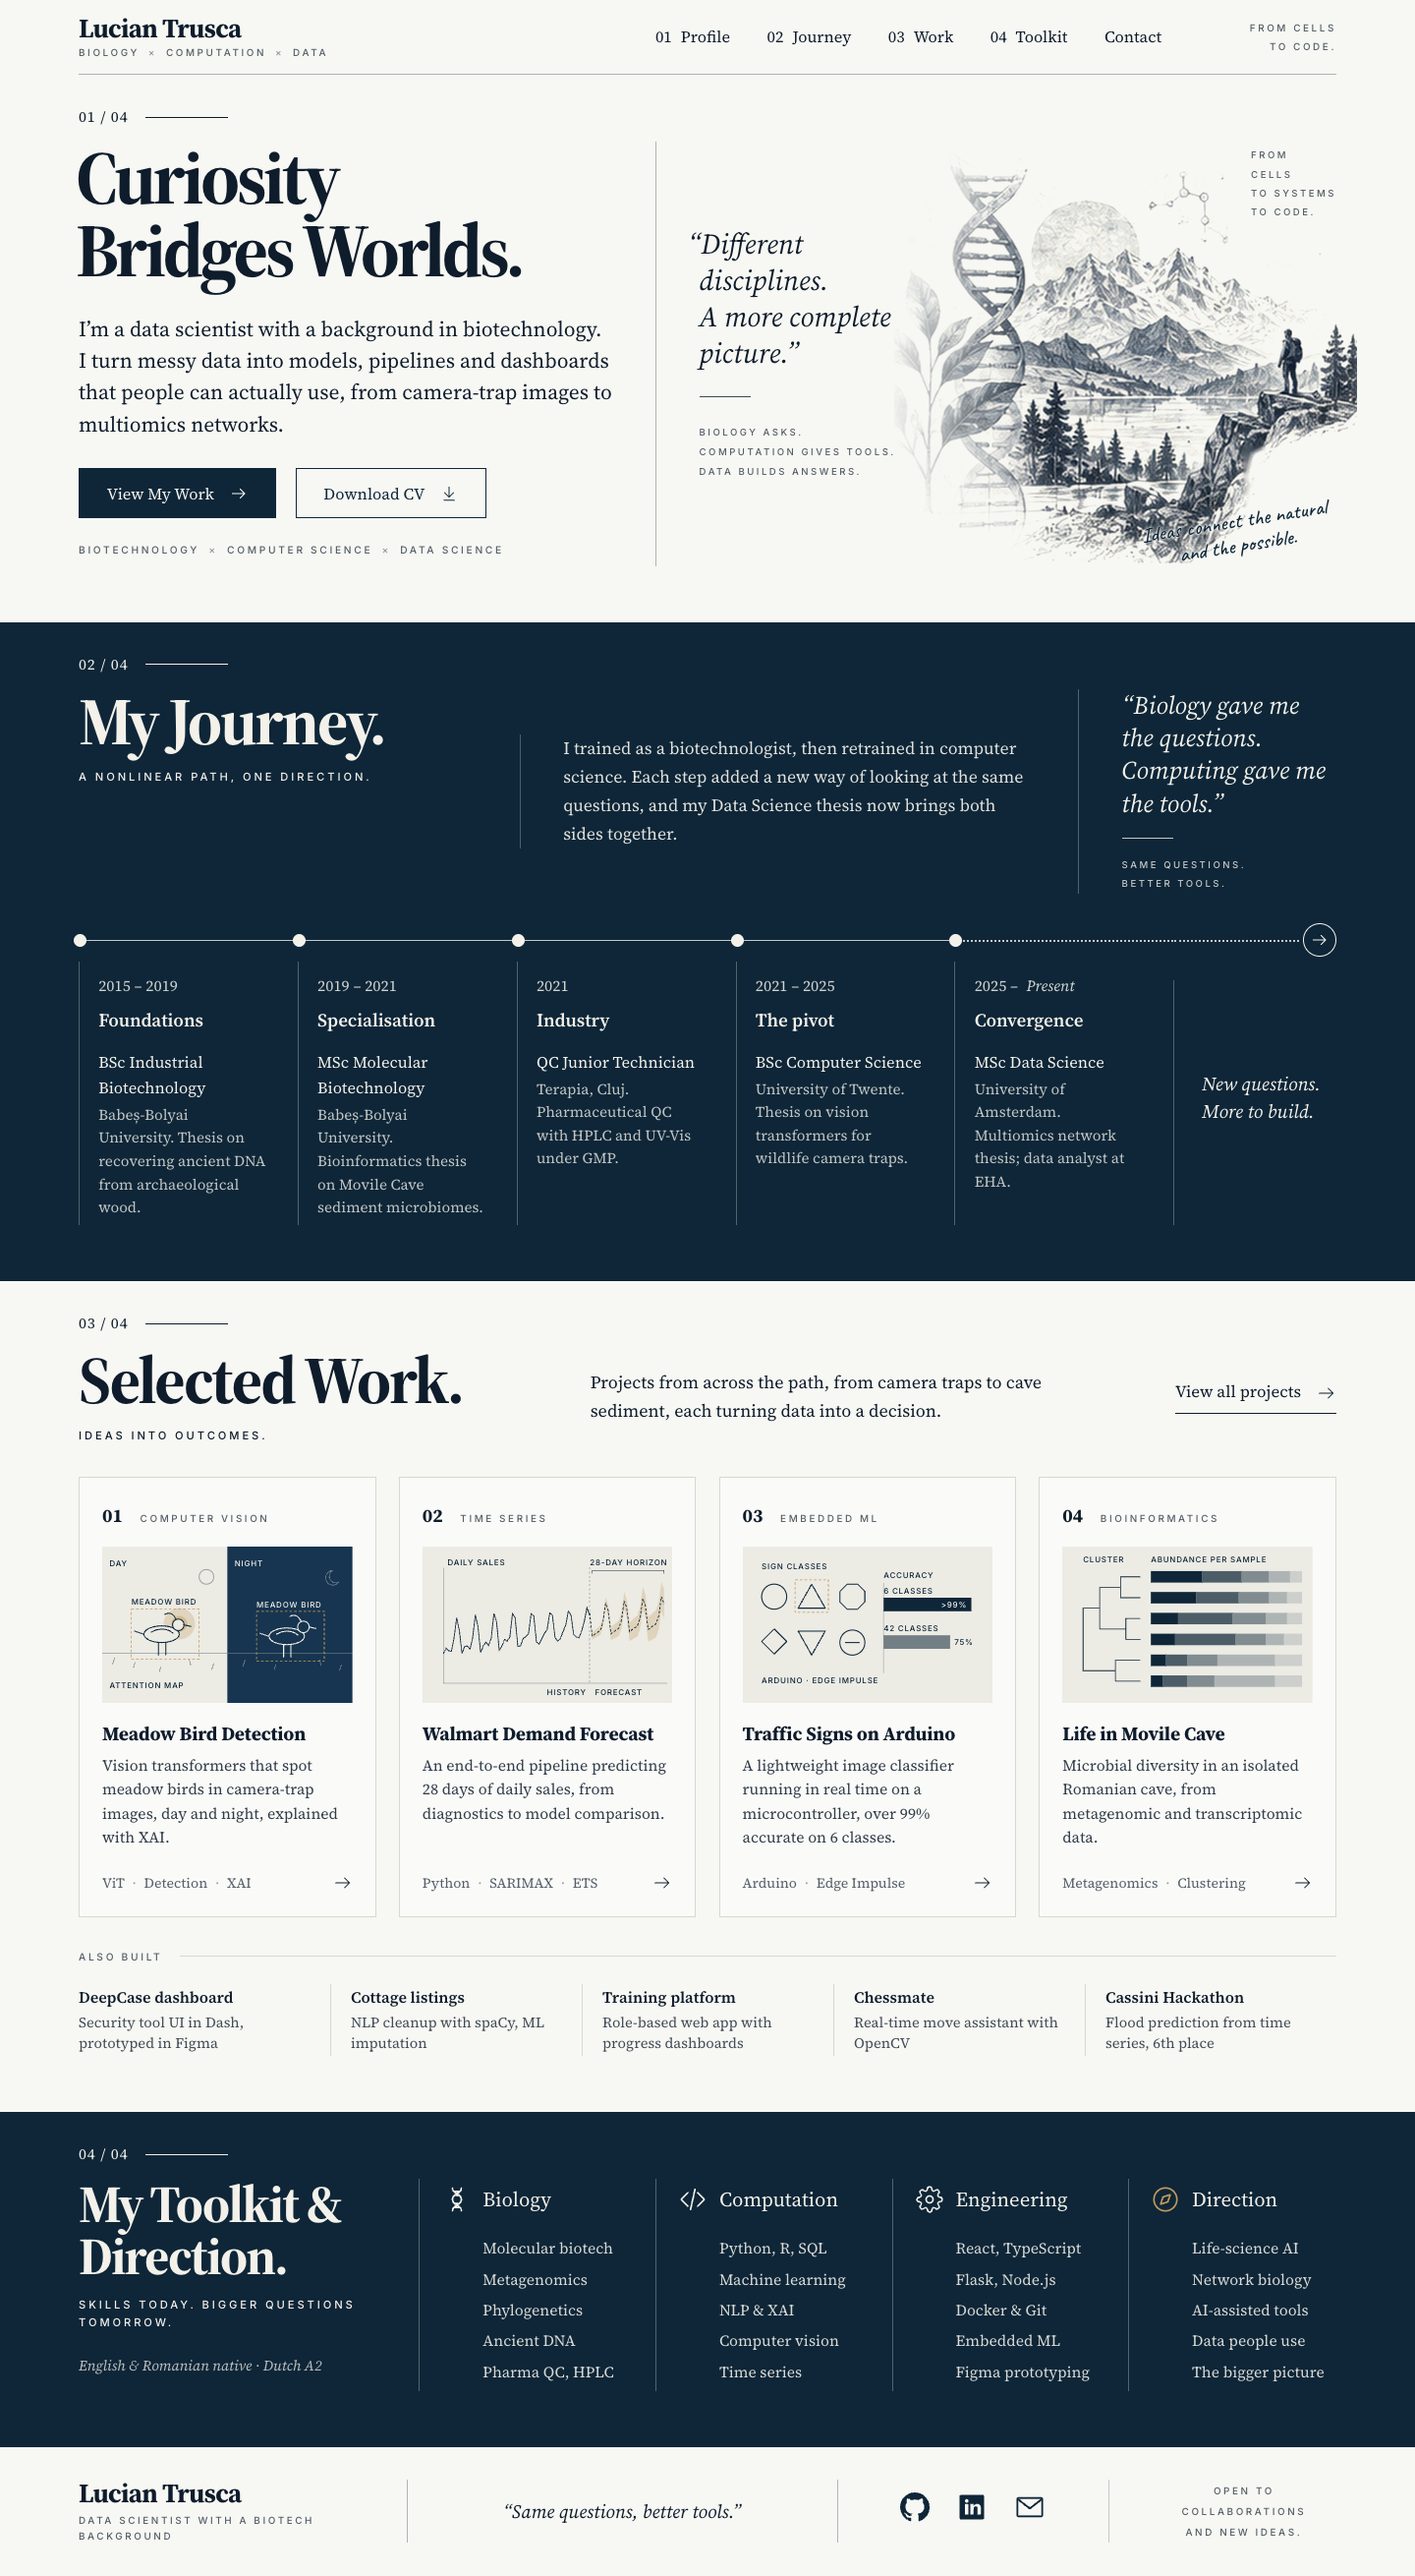
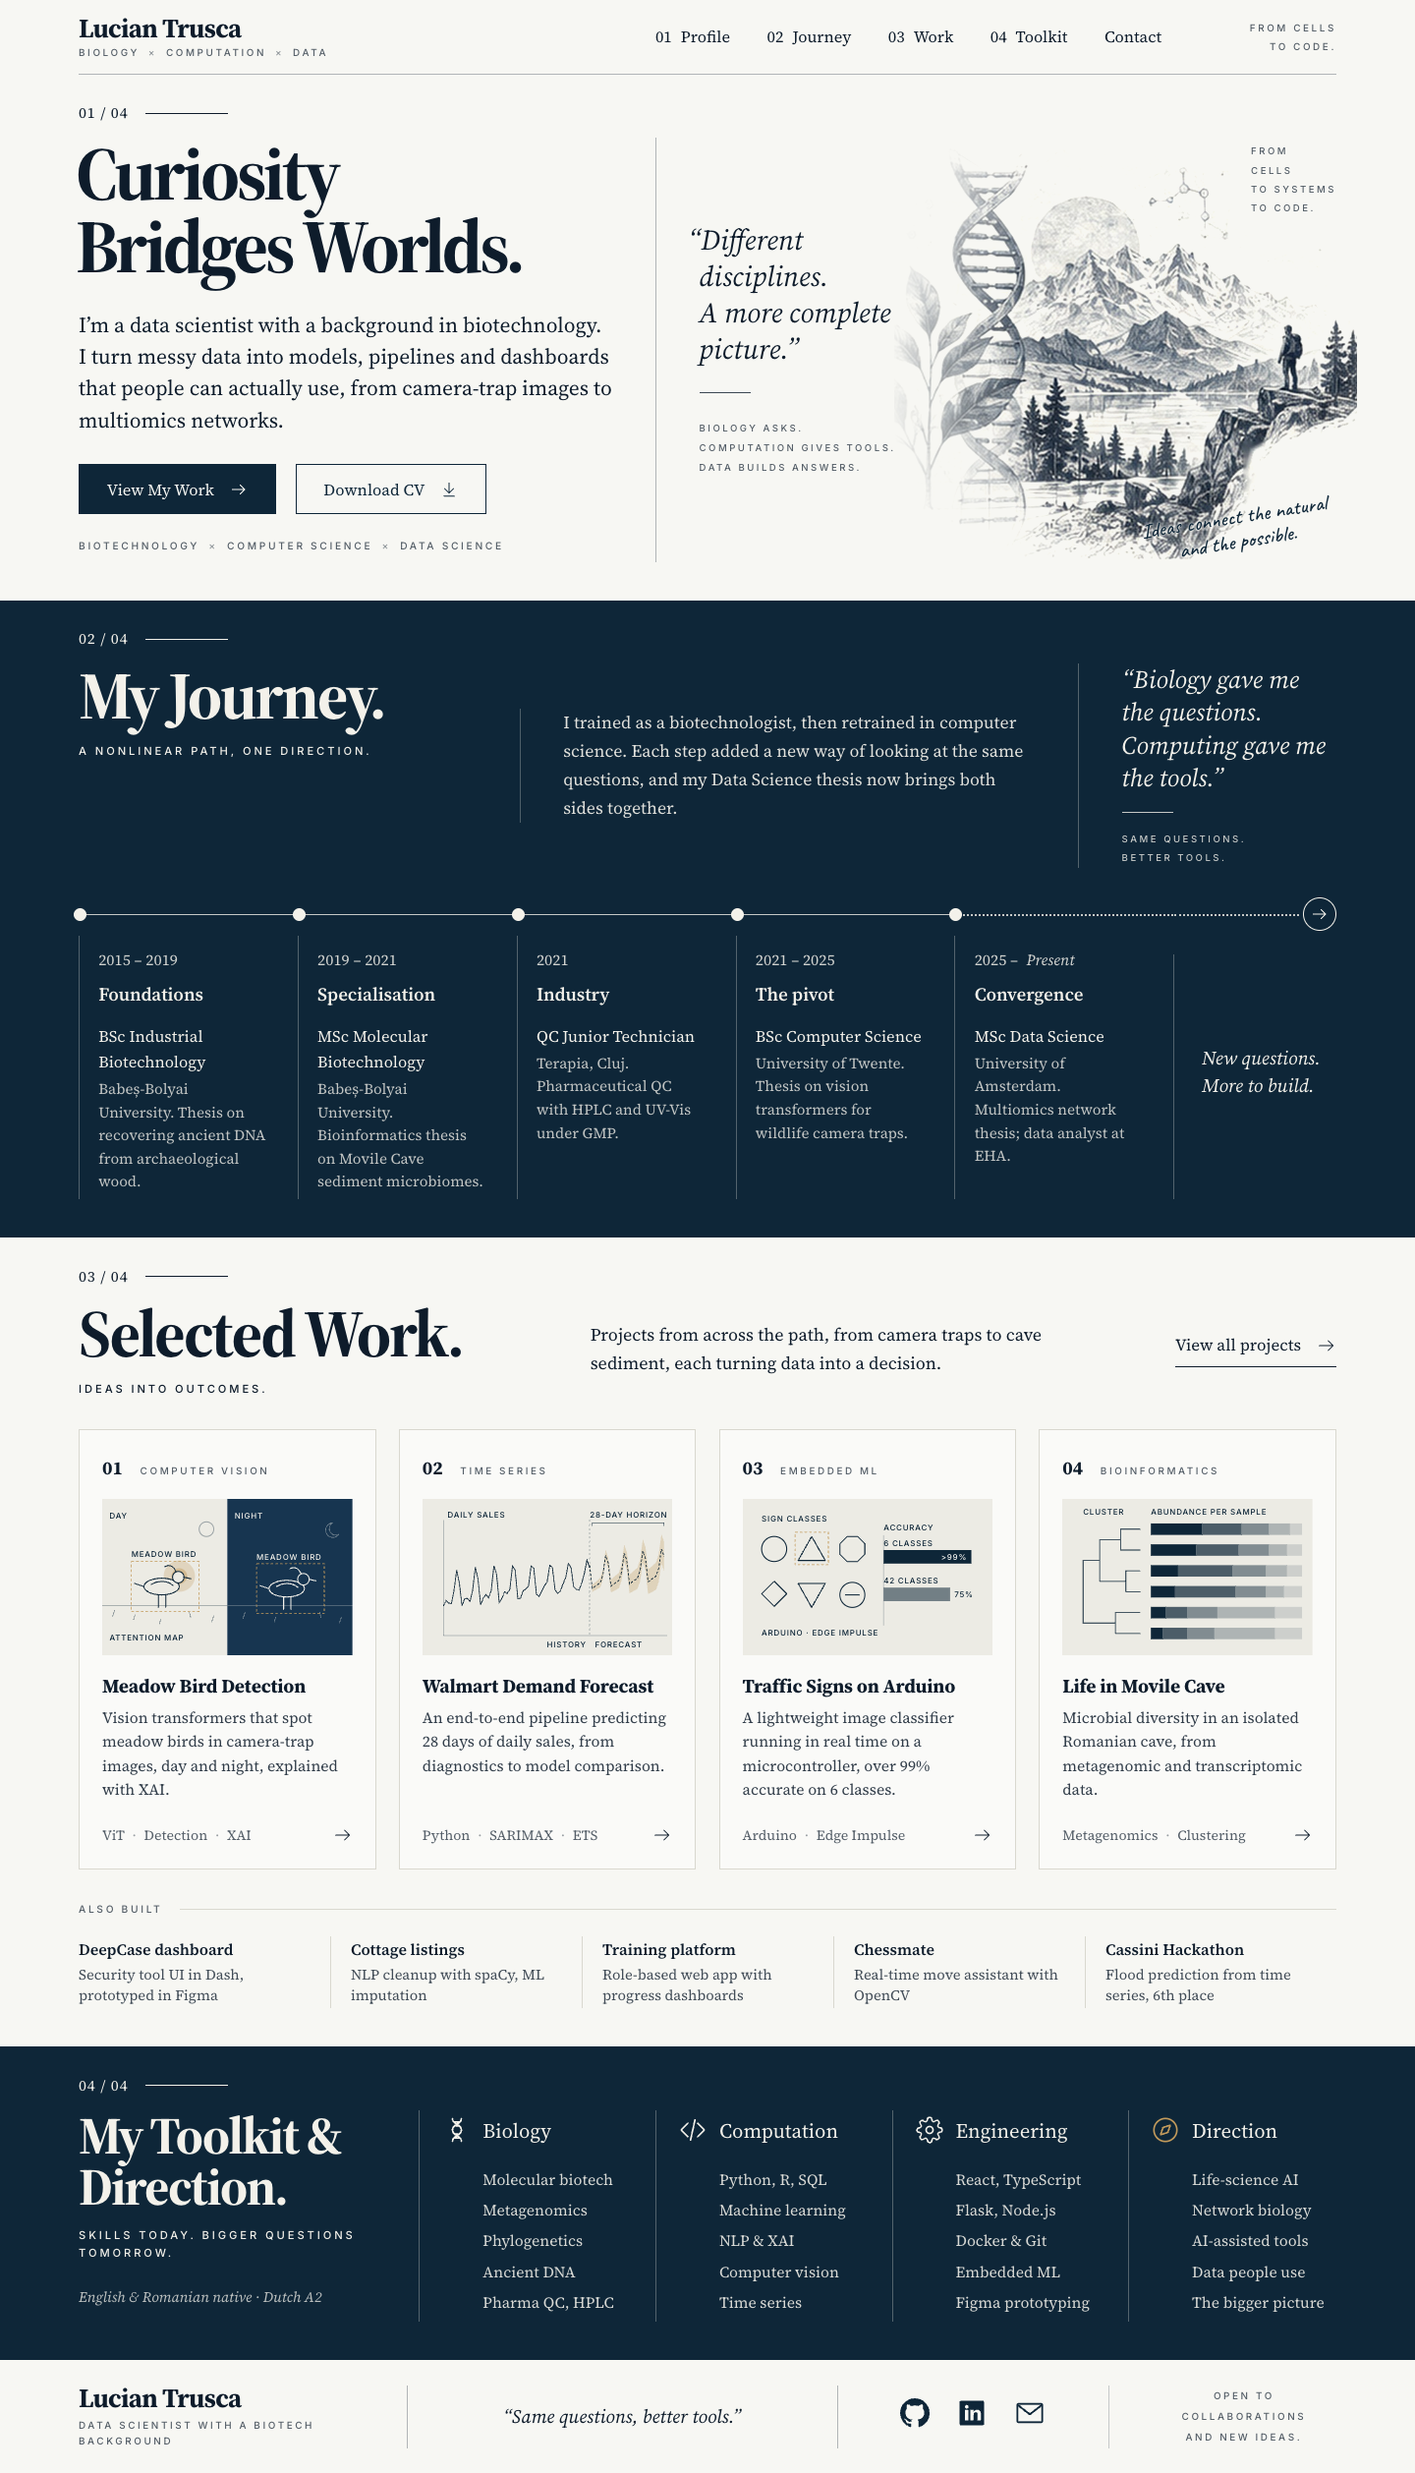
Reduce top and bottom section padding

diff --git a/src/styles/tokens.css b/src/styles/tokens.css
@@ -22,7 +22,7 @@
   --gutter: 24px;
   --margin: clamp(20px, 5vw, 64px);
   --header-h: 76px;
-  --band-pad: clamp(2.5rem, 1.4rem + 2.4vw, 4rem);
+  --band-pad: clamp(1.75rem, 1rem + 1.6vw, 2.75rem);
 }
 
 *, *::before, *::after { box-sizing: border-box; }
